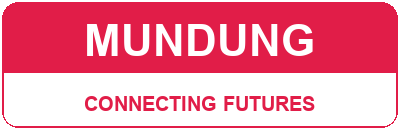
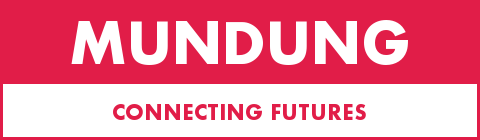
fix(brands): update Mundung badge to sharp non-rounded box with authentic Futura/Jost typography from mde.co.id

Changed region(s): [[0.15, 0.1231, 0.87, 0.4923], [0.0, 0.0, 1.0, 1.0], [0.21, 0.7385, 0.81, 0.8615]]

diff --git a/FrontEnd/components/brand-logos.tsx b/FrontEnd/components/brand-logos.tsx
@@ -14,8 +14,8 @@ const BRAND_ASSETS: Record<string, { src: string; width: number; height: number;
   schneiderelectric: { src: "/brands/schneider.png", width: 243, height: 72, alt: "Schneider Electric" },
   xarrow: { src: "/brands/xarrow.png", width: 195, height: 72, alt: "xArrow SCADA" },
   xarrowscada: { src: "/brands/xarrow.png", width: 195, height: 72, alt: "xArrow SCADA" },
-  mundung: { src: "/brands/mundung.png", width: 186, height: 56, alt: "Mundung Connecting Futures" },
-  mundungconnectingfutures: { src: "/brands/mundung.png", width: 186, height: 56, alt: "Mundung Connecting Futures" },
+  mundung: { src: "/brands/mundung.png", width: 480, height: 140, alt: "Mundung Connecting Futures" },
+  mundungconnectingfutures: { src: "/brands/mundung.png", width: 480, height: 140, alt: "Mundung Connecting Futures" },
 
   // Experienced Work With Brands
   abb: { src: "/brands/abb.png", width: 188, height: 72, alt: "ABB" },
